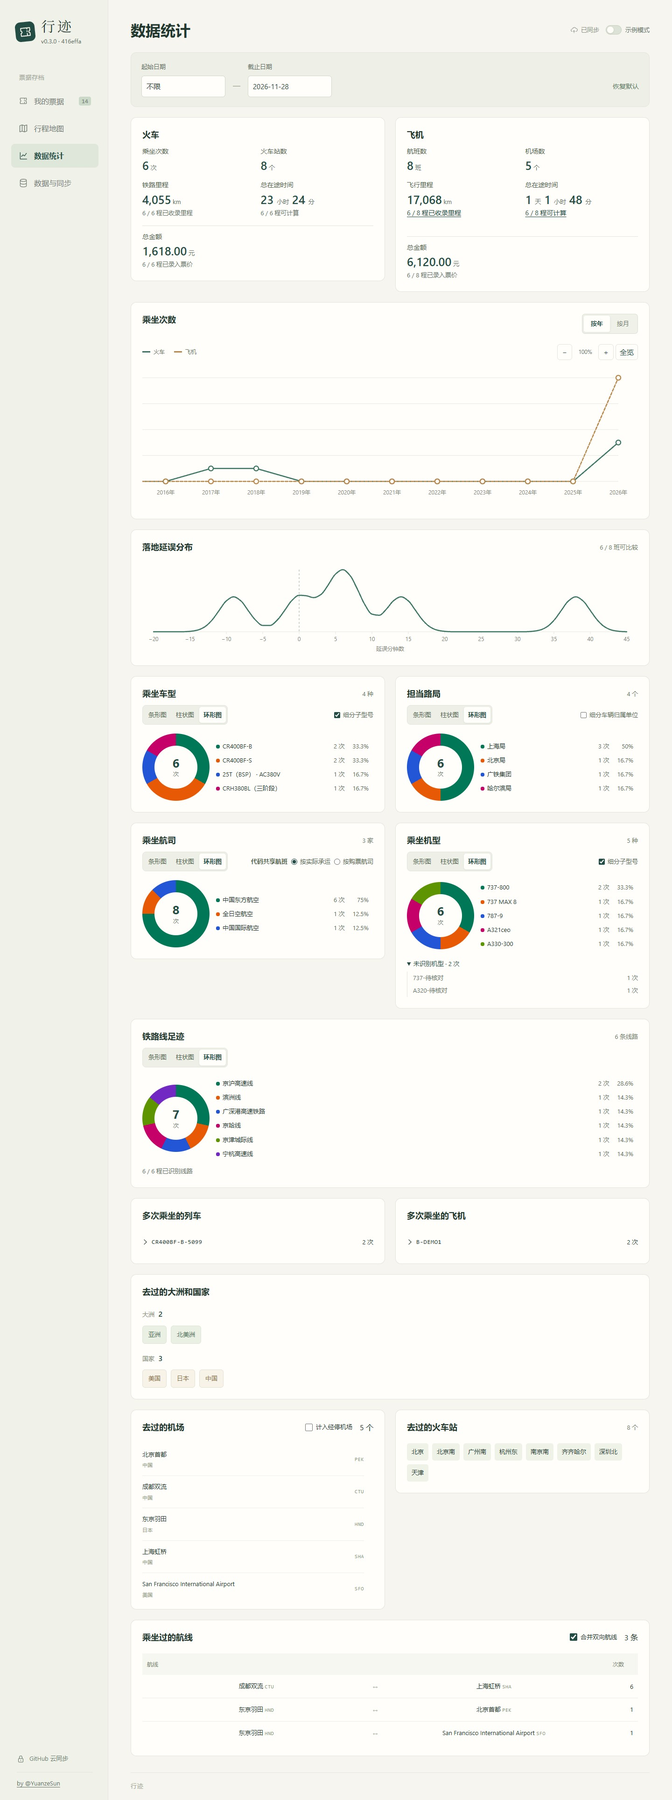
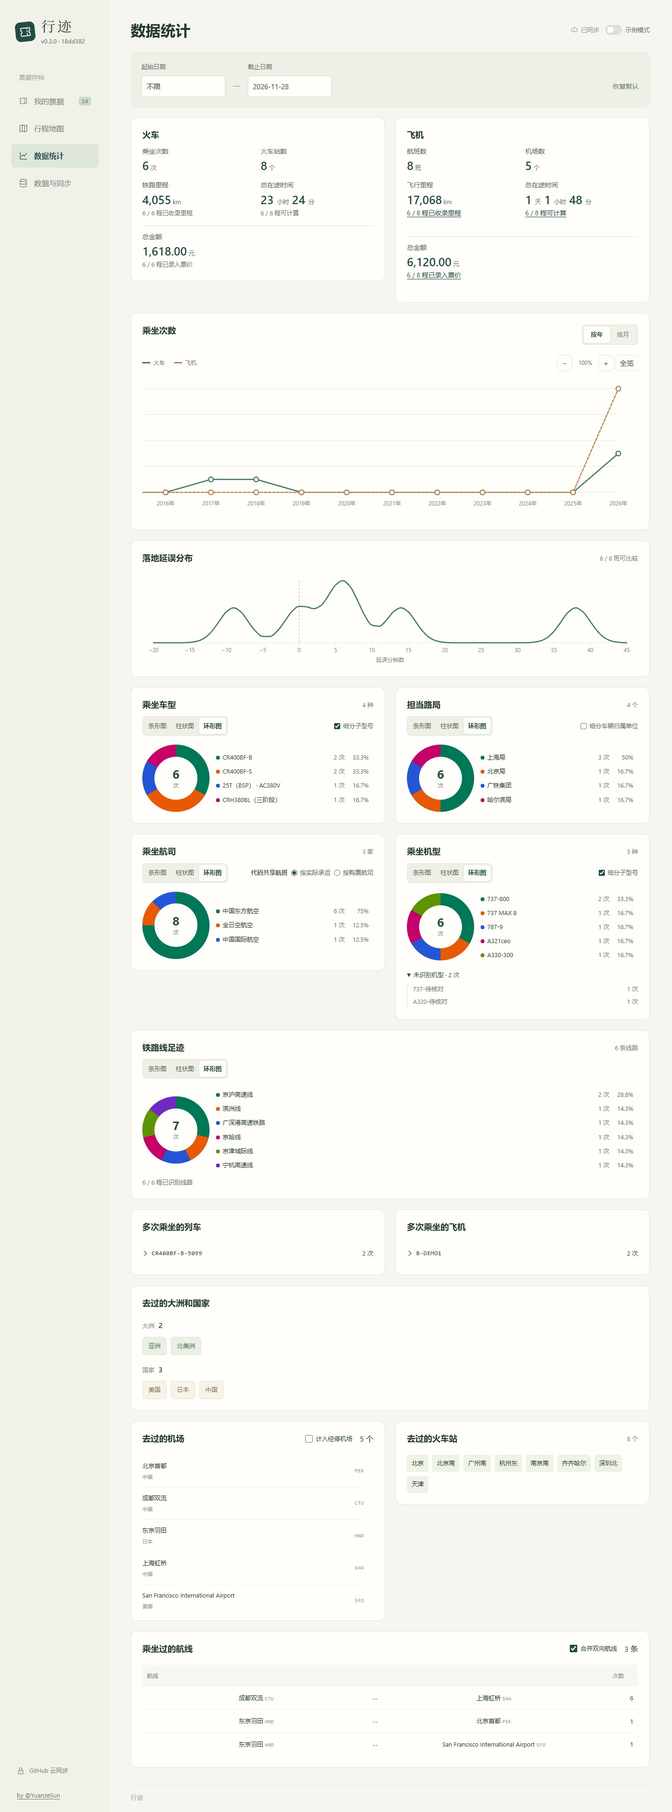
Use direct cabin entry and improve ticket coverage displays

diff --git a/tests/statistics.test.js b/tests/statistics.test.js
@@ -139,9 +139,10 @@ test('rail and flight travel times are totaled independently across dates, time 
 test('ticket fare totals follow the journey date range and distinguish zero prices from missing prices', () => {
   const rows = [
     rail({ price: '0.1' }), rail({ price: '0.20', template: 'rail-supplement', railSupplementFee: '0.10' }),
-    rail({}), rail({ price: '20', template: 'rail-refund-receipt' }),
+    rail({ id: 'missing-rail-fare' }), rail({ price: '20', template: 'rail-refund-receipt' }),
     flight({ price: '0' }), flight({ price: '1024.57', departureDate: '2024-03-02' }),
-    flight({ price: '300', flightStatus: 'invalid' }), flight({ price: '400', departureDate: '2024-03-03' })
+    flight({ price: '300', flightStatus: 'invalid' }), flight({ price: '400', departureDate: '2024-03-03' }),
+    flight({ id: 'missing-flight-fare', departureDate: '2024-03-02' })
   ];
   const options = { dateTo: '2024-03-02' };
   assert.deepEqual(journeyStatistics(rows, options).fares, { rail: { cents: 30, trips: 2 }, flight: { cents: 102457, trips: 2 } });
@@ -153,9 +154,16 @@ test('ticket fare totals follow the journey date range and distinguish zero pric
   const amounts = () => [...root.querySelectorAll('.statistics-journey-card')].map(card =>
     [...card.querySelectorAll('dt')].find(label => label.textContent === '总金额').nextElementSibling.textContent);
   try {
-    assert.deepEqual(amounts(), ['0.30 元2 / 3 程已录入票价', '1,024.57 元2 / 2 程已录入票价']);
+    assert.deepEqual(amounts(), ['0.30 元2 / 3 程已录入票价', '1,024.57 元2 / 3 程已录入票价']);
+    for (const [metric, id] of [['railFare', 'missing-rail-fare'], ['flightFare', 'missing-flight-fare']]) {
+      root.querySelector(`[data-stat-missing="${metric}"]`).click();
+      const dialog = root.querySelector('.related-tickets-dialog');
+      assert.deepEqual([...dialog.querySelectorAll('[data-action="view"]')].map(button => button.dataset.id), [id]);
+      dialog.querySelector('[data-close-related]').click();
+    }
     applyStatisticsDate(root, '[data-stat-to]', '2024-03-01');
     assert.deepEqual(amounts(), ['0.30 元2 / 3 程已录入票价', '0.00 元1 / 1 程已录入票价']);
+    assert.equal(root.querySelector('[data-stat-missing="flightFare"]'), null);
     applyStatisticsDate(root, '[data-stat-to]', '2024-02-29');
     assert.deepEqual(amounts(), ['0.30 元2 / 3 程已录入票价', '—0 / 0 程已录入票价']);
   } finally {
@@ -344,7 +352,7 @@ test('statistics keep airport and station identities, combine return air routes 
   assert.equal(data.stations.length, 2); assert.equal(data.airports.length, 3);
   assert.equal(data.routes.length, 2); assert.equal(data.routes.find(route => route.id === 'HND-PEK').count, 2);
   assert.deepEqual(data.aircraft, [{ name: '737-800', count: 2 }, { name: 'A320（子型号未确认）', count: 1 }]);
-  assert.equal(data.unknownAircraft, 1);
+  assert.equal(data.unknownAircraft, 0);
   assert.deepEqual(data.countries.map(row => row.code).sort(), ['CN', 'JP']);
   assert.equal(JSON.stringify(rows), before);
 });
@@ -665,11 +673,11 @@ test('each ranking switches charts independently and keeps its grouping and date
     const slices = aircraft.querySelector('.statistics-ring').style.getPropertyValue('--slices');
     const unknown = aircraft.querySelector('.statistics-unidentified');
     assert.equal(unknown.open, false);
-    assert.equal(unknown.querySelector('summary').textContent, '未识别机型 · 4 次');
+    assert.equal(unknown.querySelector('summary').textContent, '未识别机型 · 3 次');
     unknown.querySelector('summary').click();
     assert.equal(unknown.open, true);
     const unknownRows = [...unknown.querySelectorAll('li')].map(row => [...row.children].map(cell => cell.textContent));
-    assert.deepEqual(Object.fromEntries(unknownRows), { '未知型号': '2 次', '实验机型 <X>': '1 次', '未填写': '1 次' });
+    assert.deepEqual(Object.fromEntries(unknownRows), { '未知型号': '2 次', '实验机型 <X>': '1 次' });
     assert.doesNotMatch(aircraft.textContent, /其他（/);
     assert.equal(entries.length, 7);
     assert.equal(new Set(colors).size, entries.length);

diff --git a/src/statistics.js b/src/statistics.js
@@ -9,12 +9,14 @@ import { showRelatedTickets } from './related-tickets.js';
 const empty = text => `<p class="statistics-empty">${text}</p>`;
 const metricMarkup = (value, unit, maximumFractionDigits = 0, minimumFractionDigits = 0) =>
   `${value.toLocaleString('zh-CN', { maximumFractionDigits, minimumFractionDigits })}<small> ${unit}</small>`;
-const fareMetric = ({ cents, trips }) => ['总金额', metricMarkup(cents / 100, '元', 2, 2), trips, '程已录入票价'];
+const fareMetric = ({ cents, trips }, metric) => ['总金额', metricMarkup(cents / 100, '元', 2, 2), trips, '程已录入票价', metric];
 const missingTitles = {
   railMileage: '缺少铁路里程',
   flightMileage: '缺少飞行里程',
   railTravelTime: '无法计算火车在途时间',
-  flightTravelTime: '无法计算飞机在途时间'
+  flightTravelTime: '无法计算飞机在途时间',
+  railFare: '缺少火车票价',
+  flightFare: '缺少航班票价'
 };
 function metricCoverage(count, total, label, metric, missing) {
   if (!label) return '';
@@ -58,7 +60,7 @@ function unknownRankingMarkup(label, count, details) {
   if (!count) return '';
   const summary = `${label} · ${count} 次`;
   if (!details) return `<p class="fine-print">${summary}</p>`;
-  const items = details.map(({ name, count }) => `<li><span>${e(name || '未填写')}</span><span>${count} 次</span></li>`).join('');
+  const items = details.map(({ name, count }) => `<li><span>${e(name)}</span><span>${count} 次</span></li>`).join('');
   return `<details class="statistics-unidentified"><summary>${summary}</summary><ul>${items}</ul></details>`;
 }
 
@@ -104,14 +106,14 @@ export function mountStatistics(container, records, { options = {}, canEdit = ()
         ['火车站数', metricMarkup(data.stations.length, '个')],
         ['铁路里程', metricMarkup(data.railMileage, 'km', 3), data.railMileageTrips, '程已收录里程', 'railMileage'],
         ['总在途时间', durationMarkup(rail.minutes), rail.trips, '程可计算', 'railTravelTime'],
-        fareMetric(data.fares.rail)
+        fareMetric(data.fares.rail, 'railFare')
       ]],
       ['飞机', data.flight, [
         ['航班数', metricMarkup(data.flight, '班')],
         ['机场数', metricMarkup(data.airports.length, '个')],
         ['飞行里程', metricMarkup(data.flightMileage, 'km', 1), data.flightMileageTrips, '程已收录里程', 'flightMileage'],
         ['总在途时间', durationMarkup(flight.minutes), flight.trips, '程可计算', 'flightTravelTime'],
-        fareMetric(data.fares.flight)
+        fareMetric(data.fares.flight, 'flightFare')
       ]]
     ];
     container.innerHTML = `<section class="statistics-range" aria-label="统计日期范围"><div>${rangeButton('dateFrom', '起始日期', 'data-stat-from')}<span class="statistics-range-dash">—</span>${rangeButton('dateTo', '截止日期', 'data-stat-to')}<button type="button" class="text-button" data-stat-reset aria-label="恢复默认日期" title="恢复默认日期"><span class="statistics-reset-symbol" aria-hidden="true">↺</span><span class="statistics-reset-label">恢复默认</span></button></div><p class="form-error" role="alert" ${data.error ? '' : 'hidden'}>${e(data.error)}</p></section>${data.error ? '' : `

diff --git a/tests/boarding-code-app.test.js b/tests/boarding-code-app.test.js
@@ -33,8 +33,9 @@ test('the app saves generated code edits immediately, persists provenance, and k
     assert.ok(document.querySelector('[name="pnr"]').compareDocumentPosition(document.querySelector('[data-bcbp-generator]')) & window.Node.DOCUMENT_POSITION_FOLLOWING);
     assert.equal(document.querySelector('[name="marketingCarrier"], [name="marketingFlightNumber"]'), null);
     assert.equal(document.querySelector('[data-bcbp="operatingFlight"]').disabled, false);
-    fill('seat','20C');submit();await wait(()=>!document.querySelector('dialog'));
+    fill('seat','20C');fill('seatClass','J');submit();await wait(()=>!document.querySelector('dialog'));
     let saved=server.records().find(record=>record.id==='generated');assert.equal(saved.seat,'20C');assert.equal(saved.boardingCodeSource,'generated');assert.equal(readBoardingCode(saved.boardingCode).seat,'20C');
+    assert.equal(saved.seatClass,'J');assert.equal(readBoardingCode(saved.boardingCode).cabin,'J');
     assert.equal(Object.hasOwn(saved,'marketingFlightNumber'),false);
     assert.equal(saved.fieldSources.seat,'manual');assert.equal(saved.fieldSources.boardingCode,'generated');
     await open('generated');assert.equal(document.querySelector('[data-bcbp="sequence"]').value,'0025');assert.equal(document.querySelector('[data-bcbp="status"]').value,'1');
@@ -70,11 +71,11 @@ test('the app saves generated code edits immediately, persists provenance, and k
       assert.match(field.textContent,/购票航班号.*MU7941/);
     });
     assert.equal(document.querySelector('[name="marketingFlightNumber"]').value,'MU7941');
-    assert.equal(document.querySelector('[name="type"]').disabled,true);assert.equal(document.querySelector('[name="service"]').readOnly,true);assert.equal(document.querySelector('[data-seat-preset]').disabled,true);assert.equal(document.querySelector('[name="departureDate"]').readOnly,false);
+    assert.equal(document.querySelector('[name="type"]').disabled,true);assert.equal(document.querySelector('[name="service"]').readOnly,true);assert.equal(document.querySelector('[name="seatClass"]').readOnly,true);assert.equal(document.querySelector('[name="departureDate"]').readOnly,false);
     assert.equal(document.querySelector('#code-remove'),null);
     assert.ok(document.querySelector('[data-code-start]:not(:disabled)'));
     assert.ok(document.querySelector('[data-code-upload]:not(:disabled)'));
     assert.equal(document.querySelector('[data-code-examples]').hidden, true);
-    fill('seat','30C');submit();await wait(()=>!document.querySelector('dialog'));saved=server.records().find(record=>record.id==='original');assert.equal(saved.seat,'12A');assert.deepEqual(saved.boardingCode,original.boardingCode);
+    fill('seat','30C');fill('seatClass','J');submit();await wait(()=>!document.querySelector('dialog'));saved=server.records().find(record=>record.id==='original');assert.equal(saved.seat,'12A');assert.equal(saved.seatClass,'Y');assert.deepEqual(saved.boardingCode,original.boardingCode);
   }finally{window.dispatchEvent(new window.Event('offline'));dom.window.close();}
 });

diff --git a/tests/flight-lookup-app.test.js b/tests/flight-lookup-app.test.js
@@ -48,7 +48,7 @@ test('the editor fills a flight through the provider, preserves private input an
     assert.equal(document.querySelector('[name=boardingTime]').value, '23:05');
     assert.equal(document.querySelector('[name=departureTerminal]').value, 'T3');
     assert.equal(document.querySelector('[name=arrivalTerminal]').value, 'T2');
-    assert.equal(document.querySelector('[name=flightStopAirport]').value, 'KIX');
+    assert.equal(document.querySelector('[name=flightStopAirport]').value, '关西国际机场');
     assert.equal(document.querySelector('[data-flight-stop-source]').textContent, '飞常准');
     assert.equal(document.querySelector('[name=actualDepartureTime]').value,'00:15');assert.equal(document.querySelector('[name=actualArrivalTime]').value,'04:15');assert.equal(document.querySelector('[name=flightDistance]').value,'2100');
     assert.match(document.querySelector('[name=departureTime]').closest('.field').textContent,/计划起飞时间/);assert.equal(document.querySelector('[name=actualDepartureTime]').required,false);assert.equal(document.querySelector('[name=actualDepartureDateYear]').type,'number');
@@ -96,7 +96,7 @@ test('the editor fills a flight through the provider, preserves private input an
     assert.match(document.querySelector('[data-detail-field=flightStop]').textContent, /经停机场.*KIX/);
     document.querySelector('[data-action="edit"]').click(); await wait(() => document.querySelector('#editor-form'));
     const airport = document.querySelector('[name=flightStopAirport]');
-    assert.equal(airport.value, 'KIX');
+    assert.equal(airport.value, '关西国际机场');
     fill('flightStopAirport', 'PVG、KIX');
     submit();
     assert.equal(airport.getAttribute('aria-invalid'), 'true');
@@ -104,6 +104,9 @@ test('the editor fills a flight through the provider, preserves private input an
     fill('flightStopAirport', 'PEK');
     submit();
     assert.match(document.querySelector('#editor-error').textContent, /经停机场须与出发和到达机场不同/);
+    fill('flightStopAirport', 'PVG');
+    airport.dispatchEvent(new window.Event('change', { bubbles: true }));
+    assert.equal(airport.value, '上海浦东国际机场');
     airport.focus();
     fill('flightStopAirport', '上海');
     const suggestions = airport.closest('.airport-picker').querySelector('[role=listbox]');
@@ -112,7 +115,7 @@ test('the editor fills a flight through the provider, preserves private input an
     assert.ok(pudong);
     pudong.click();
     assert.equal(suggestions.hidden, true);
-    assert.equal(airport.value, 'PVG');
+    assert.equal(airport.value, '上海浦东国际机场');
     assert.equal(document.querySelector('[data-flight-stop-source]').textContent, '手动输入');
     submit(); await wait(() => !document.querySelector('dialog'));
     const corrected = (await db.get('records', []))[0];

diff --git a/src/seat-class-field.js b/src/seat-class-field.js
@@ -1,14 +1,17 @@
-import { SEAT_CLASSES, normalizeSeatClass } from './seat-classes.js';
+import { RAIL_SEAT_CLASSES, normalizeSeatClass } from './seat-classes.js';
 import { escape as e } from './html.js';
 import { requiredRecordFields, ticketRequiredMark } from './ticket-form.js';
 import {fieldSourceBadge} from './field-sources.js';
 
 export function seatClassField(record) {
-  const flight = record.type === 'flight', presets = SEAT_CLASSES[record.type];
   const value = normalizeSeatClass(record.seatClass, record.type);
-  const custom = !!value && !presets.includes(value);
   const required = requiredRecordFields(record).includes('seatClass');
-  return `<div class="field seat-class-field"><span>${flight ? '舱位代码' : '席别'}${ticketRequiredMark(record, 'seatClass', required)}${fieldSourceBadge('seatClass',record)}</span><select ${required ? 'required aria-required="true"' : ''} data-seat-preset aria-label="选择席别或舱位"><option value="">${flight ? '选择舱位代码' : '选择席别'}</option>${presets.map(label => `<option value="${e(label)}" ${value === label ? 'selected' : ''}>${e(label)}</option>`).join('')}<option value="__custom__" ${custom ? 'selected' : ''}>自定义…</option></select><input name="seatClass" aria-required="${required}" value="${e(value)}" aria-label="自定义席别或舱位" placeholder="${flight ? '如 Y、M1，按原票填写' : '填写席别'}" ${custom ? '' : 'hidden'} /></div>`;
+  const marks = ticketRequiredMark(record, 'seatClass', required) + fieldSourceBadge('seatClass', record);
+  if (record.type === 'flight') {
+    return `<label class="field"><span>舱位代码${marks}</span><input type="text" name="seatClass" value="${e(value)}" ${required ? 'required' : ''} spellcheck="false" /></label>`;
+  }
+  const custom = !!value && !RAIL_SEAT_CLASSES.includes(value);
+  return `<div class="field seat-class-field"><span>席别${marks}</span><select ${required ? 'required aria-required="true"' : ''} data-seat-preset aria-label="选择席别"><option value="">选择席别</option>${RAIL_SEAT_CLASSES.map(label => `<option value="${e(label)}" ${value === label ? 'selected' : ''}>${e(label)}</option>`).join('')}<option value="__custom__" ${custom ? 'selected' : ''}>自定义…</option></select><input name="seatClass" aria-required="${required}" value="${e(value)}" aria-label="自定义席别" placeholder="填写席别" ${custom ? '' : 'hidden'} /></div>`;
 }
 
 export function bindSeatClassFields(root) {

diff --git a/tests/manual-entry.test.js b/tests/manual-entry.test.js
@@ -76,7 +76,10 @@ test('manual entry always previews, validates required fields and resolves airpo
   click('.duplicate-dialog [data-duplicate-value]:not([data-duplicate-value=""])');await wait(()=>!document.querySelector('dialog'));
   records=await db.get('records',[]);assert.equal(records.length,1);assert.equal(records[0].price,'100');assert.equal(records[0].seat,'08F');
   click('[data-action="new"]');await wait(()=>document.querySelector('#editor-form'));
-  fill('type','flight');fill('passenger','示例旅客');fill('identity','p000001');fill('seat','24k');fill('seatClass','Y');fill('departureTime','12:00');assert.match(document.querySelector('[name="seat"]').closest('.field').textContent.trim(),/^座位号\*/);assert.equal(document.querySelector('[data-field-source="seat"]').textContent,'手动输入');
+  fill('type','flight');fill('passenger','示例旅客');fill('identity','p000001');fill('seat','24k');fill('seatClass','m1');fill('departureTime','12:00');assert.match(document.querySelector('[name="seat"]').closest('.field').textContent.trim(),/^座位号\*/);assert.equal(document.querySelector('[data-field-source="seat"]').textContent,'手动输入');
+  const seatClass=document.querySelector('input[name="seatClass"]');
+  assert.equal(seatClass.value,'M1');assert.equal(seatClass.required,true);assert.equal(seatClass.hidden,false);
+  assert.equal(document.querySelector('[data-seat-preset]'),null);
   const englishName=document.querySelector('[data-bcbp="passenger"]');
   englishName.value='li/ming';englishName.dispatchEvent(new window.InputEvent('input',{bubbles:true}));
   assert.equal(englishName.value,'LI/MING');
@@ -116,7 +119,7 @@ test('manual entry always previews, validates required fields and resolves airpo
   assert.equal(flight.boardingCodeOperatingFlight, 'NH964');
   assert.equal(flight.service, 'CA981');
   assert.equal(flight.originCode,'PEK');assert.equal(flight.destinationCode,'HND');
-  assert.equal(flight.identity,'P000001');assert.equal(flight.seat,'24K');
+  assert.equal(flight.identity,'P000001');assert.equal(flight.seat,'24K');assert.equal(flight.seatClass,'M1');
   assert.equal(flight.departureZone,'Asia/Shanghai');assert.equal(flight.arrivalZone,'Asia/Tokyo');
   assert.deepEqual([flight.baggageTagNumbers, flight.checkedBaggageCount, flight.checkedBaggageWeight], ['0123456789', '1', '']);
   click('[data-action="new"][data-type="flight"]');await wait(()=>document.querySelector('#editor-form'));

diff --git a/tests/code-reader.test.js b/tests/code-reader.test.js
@@ -17,7 +17,7 @@ import {taggedBoardingPayload} from './helpers/tagged-boarding-code.js';
 import { multilegCode, multilegPayload } from './helpers/multileg-boarding-code.js';
 import { BOARDING_METADATA_FIELDS } from '../src/boarding-metadata.js';
 import {boardingPresentation} from '../src/boarding-language.js';
-import {seatClassField,bindSeatClassFields} from '../src/seat-class-field.js';
+import {seatClassField} from '../src/seat-class-field.js';
 import {ticketFieldLocked} from '../src/barcode-fields.js';
 import { symbolImage } from '../src/barcode-symbols.js';
 import { Resvg } from '@resvg/resvg-js';
@@ -184,12 +184,11 @@ test('the QR fills the single boarding time and preserves city tags and unknown 
   const draft=createRecord({type:'flight',template:'air-boarding-pass',boardingTime:'17:30'});
   const fields=[...BOARDING_SHARED_FIELDS.filter(key=>key!=='seatClass'),'airline'];
   const dom=new JSDOM('<form>'+fields.map(key=>`<input name="${key}" value="${draft[key]}">`).join('')+seatClassField(draft)+ticketCodeEditor(draft)+boardingGeneratorMarkup(draft)+'</form>'),form=dom.window.document.querySelector('form');
-  bindSeatClassFields(form);
   const cleanup=bindTicketCodeEditor(form,draft,()=>{},{loadRebuilder:async()=>async()=>result});
   try{
     const photo=form.querySelector('#code-photo');Object.defineProperty(photo,'files',{value:[new Blob(['synthetic QR'])]});photo.dispatchEvent(new dom.window.Event('change',{bubbles:true}));await new Promise(resolve=>setTimeout(resolve,0));
     assert.equal(draft.passenger,'张三');assert.equal(form.elements.passenger.value,'张三');assert.equal(draft.ticketNumber,'1230000000001');assert.equal(form.elements.gate.value,'A101');
-    assert.equal(draft.seatClass,'Z');assert.equal(form.elements.seatClass.value,'Z');assert.equal(form.querySelector('[data-seat-preset]').value,'Z');assert.equal(form.elements.seatClass.hidden,true);
+    assert.equal(draft.seatClass,'Z');assert.equal(form.elements.seatClass.value,'Z');assert.equal(form.elements.seatClass.hidden,false);assert.equal(form.elements.seatClass.readOnly,true);
     assert.equal(draft.airline,'中国国际航空');assert.equal(form.elements.airline.value,'中国国际航空');
     assert.equal(draft.boardingTime,'18:21');assert.equal(calendarDate(draft.departureDate),'');assert.equal(readBoardingCode(draft.boardingCode).boardingTime,'18:21');
     assert.equal(form.elements.boardingTime.value,'18:21');

diff --git a/tests/barcode-fields.test.js b/tests/barcode-fields.test.js
@@ -20,14 +20,14 @@ test('barcode-derived fields stay protected against manual attribution, provider
   assert.equal(filled.passenger,'张三');
 });
 
-test('readonly controls and the seat preset unlock only after the original code is removed',()=>{
+test('readonly controls including the cabin input unlock after the original code is removed',()=>{
   const current=record(),dom=new JSDOM('<form><label class="field"><span>交通方式</span><select name="type"><option value="flight">机票</option></select></label><label class="field"><span>姓名</span><input name="passenger"></label><label class="field"><span>日期</span><input type="date" name="departureDate"></label>'+seatClassField(current)+'</form>'),form=dom.window.document.querySelector('form');
   try{
     refreshTicketFieldLocks(form,current);
-    assert.equal(form.elements.passenger.readOnly,true);assert.equal(form.elements.passenger.value,'张三');assert.equal(form.elements.type.disabled,true);assert.equal(form.querySelector('[data-seat-preset]').disabled,true);assert.equal(form.elements.departureDate.readOnly,false);
+    assert.equal(form.elements.passenger.readOnly,true);assert.equal(form.elements.passenger.value,'张三');assert.equal(form.elements.type.disabled,true);assert.equal(form.elements.seatClass.readOnly,true);assert.equal(form.elements.departureDate.readOnly,false);
     assert.ok(form.querySelector('[data-source-locked]'));
     current.boardingCode='';current.boardingCodeSource='';refreshTicketFieldLocks(form,current);
-    assert.equal(form.elements.passenger.readOnly,false);assert.equal(form.elements.type.disabled,false);assert.equal(form.querySelector('[data-seat-preset]').disabled,false);
+    assert.equal(form.elements.passenger.readOnly,false);assert.equal(form.elements.type.disabled,false);assert.equal(form.elements.seatClass.readOnly,false);
   }finally{dom.window.close();}
 });
 

diff --git a/src/statistics-model.js b/src/statistics-model.js
@@ -82,7 +82,7 @@ export function journeyStatistics(records, input = {}, today = todayDate()) {
   let unknownAirlines = 0;
   let rail = 0, flight = 0, railMileage = 0, flightMileage = 0;
   let railLineTrips = 0, arrivalDelayTrips = 0;
-  const missing = { railMileage: [], flightMileage: [], railTravelTime: [], flightTravelTime: [] };
+  const missing = { railMileage: [], flightMileage: [], railTravelTime: [], flightTravelTime: [], railFare: [], flightFare: [] };
   const travelTime = { rail: { minutes: 0, trips: 0 }, flight: { minutes: 0, trips: 0 } };
   const fares = { rail: { cents: 0, trips: 0 }, flight: { cents: 0, trips: 0 } };
   const pricedFlightTickets = new Map();
@@ -99,7 +99,7 @@ export function journeyStatistics(records, input = {}, today = todayDate()) {
           pricedFlightTickets.set(ticket, record);
         }
       }
-    }
+    } else missing[record.type === 'rail' ? 'railFare' : 'flightFare'].push(record);
     const { minutes, arrivalDifference: delay } = journeyTiming(record);
     if (minutes) {
       travelTime[record.type].minutes += minutes;
@@ -155,7 +155,7 @@ export function journeyStatistics(records, input = {}, today = todayDate()) {
       aircraft.set(model, (aircraft.get(model) || 0) + 1);
     } else {
       const name = String(record.aircraft ?? '').trim();
-      unknownAircraftCounts.set(name, (unknownAircraftCounts.get(name) || 0) + 1);
+      if (name) unknownAircraftCounts.set(name, (unknownAircraftCounts.get(name) || 0) + 1);
     }
     if (endpoints.some(place => !place)) continue;
     const pair = options.mergeDirections ? [...endpoints].sort((a,b)=>a.code.localeCompare(b.code)) : endpoints, id=pair.map(place=>place.code).join('-');

diff --git a/tests/aircraft.test.js b/tests/aircraft.test.js
@@ -83,7 +83,7 @@ test('provider completion accepts regional type codes including names without di
 test('aircraft statistics group equivalent spellings and keep generations and unresolved entries distinct', () => {
   const inputs = ['737-8Q8', '8Q8', 'B738', '738', 'B737', 'ICAO B737', '737-8', 'B38M', '737-8-200',
     'A320-214', 'A320-271N', 'A20N', 'A330-343', 'A333', '330', 'Q400', 'DH8D', 'DHC-8', 'DHC-8-402',
-    'E195-E2', 'E295', 'CRJ7', 'AT76', 'ATR72-600', 'A320-999', '73Q', ''];
+    'E195-E2', 'E295', 'CRJ7', 'AT76', 'ATR72-600', 'A320-999', '73Q', '', '  '];
   const records = inputs.map((aircraft, index) => ({ ...createRecord({ id: 'type-' + index, type: 'flight', template: 'air-boarding-pass', origin: 'PEK', destination: 'SHA', departureDate: '2023-11-18' }), aircraft }));
   const before = JSON.stringify(records), data = journeyStatistics(records, { dateTo: '2023-12-31' });
   assert.equal(data.flight, inputs.length);
@@ -91,7 +91,7 @@ test('aircraft statistics group equivalent spellings and keep generations and un
   assert.deepEqual(counts, { '737-800': 4, '737（子型号未确认）': 1, '737-700': 1, '737 MAX 8': 3,
     A320ceo: 1, A320neo: 2, 'A330-300': 2, 'A330（子型号未确认）': 1, 'DHC-8-400': 3, 'DHC-8（子型号未确认）': 1,
     'E195-E2': 2, 'CRJ7（子型号未确认）': 1, 'ATR 72-600': 2 });
-  assert.equal(data.unknownAircraft, 3);
+  assert.equal(data.unknownAircraft, 2);
   assert.equal(JSON.stringify(records), before);
 });
 

diff --git a/src/seat-classes.js b/src/seat-classes.js
@@ -1,9 +1,8 @@
-export const SEAT_CLASSES = Object.freeze({
-  rail: ['商务座', '特等座', '优选一等座', '一等座', '二等座', '高级软卧', '软卧', '硬卧', '一等卧', '二等卧', '动卧', '软座', '硬座', '新空调软卧', '新空调硬卧', '新空调软座', '新空调硬座'],
-  flight: [...new Set('YBMHKLQVWSTNUXJCDZIFAEGOPR')]
-});
+export const RAIL_SEAT_CLASSES = Object.freeze([
+  '商务座', '特等座', '优选一等座', '一等座', '二等座', '高级软卧', '软卧', '硬卧', '一等卧', '二等卧', '动卧', '软座', '硬座', '新空调软卧', '新空调硬卧', '新空调软座', '新空调硬座'
+]);
 
-const railSeatClassPattern = new RegExp([...SEAT_CLASSES.rail].sort((a, b) => b.length - a.length).join('|'), 'g');
+const railSeatClassPattern = new RegExp([...RAIL_SEAT_CLASSES].sort((a, b) => b.length - a.length).join('|'), 'g');
 const railSeatClassSuffix = new RegExp('(?:卧代)?(?:' + railSeatClassPattern.source + ')$');
 
 export const stripRailSeatClassSuffix = text => text.replace(railSeatClassSuffix, '');
@@ -32,5 +31,5 @@ export function normalizeSeatClass(value, type) {
     if (code) return code.toUpperCase();
   }
   const names = aliases[type] || {};
-  return (Object.hasOwn(names, key) ? names[key] : '') || SEAT_CLASSES[type]?.find(label => label === key) || trimmed;
+  return (Object.hasOwn(names, key) ? names[key] : '') || (type === 'rail' && RAIL_SEAT_CLASSES.includes(key) ? key : trimmed);
 }

diff --git a/src/code-editor.js b/src/code-editor.js
@@ -195,12 +195,6 @@ export function bindTicketCodeEditor(form, draft, changed, {
       if (key === 'departureDate') writeTicketDate(form, key, draft[key]);
       else if (form.elements[key]) form.elements[key].value = draft[key];
     }
-    if (filled.includes('seatClass')) {
-      const preset = form.querySelector('[data-seat-preset]'), input = form.elements.seatClass;
-      if (preset && input && [...preset.options].some(option => option.value === draft.seatClass)) {
-        preset.value = draft.seatClass; input.hidden = true; input.required = false;
-      }
-    }
     refreshBoardingGenerator(form, draft, { profile });
     refreshFieldSources(form, draft);
     refreshTicketFieldLocks(form, draft);
@@ -365,7 +359,7 @@ export function bindTicketCodeEditor(form, draft, changed, {
     } else {
       if(input.closest('[data-code-editor]'))return;
       if(ticketFieldLocked(draft,input.name)){refreshTicketFieldLocks(form,draft);return;}
-      if(!BOARDING_SHARED_FIELDS.includes(input.closest('[data-journey-date]')?.dataset.journeyDate || input.name) && !input.matches('[data-seat-preset]'))return;
+      if(!BOARDING_SHARED_FIELDS.includes(input.closest('[data-journey-date]')?.dataset.journeyDate || input.name))return;
     }
     clearTimeout(updateTimer);
     updateTimer=setTimeout(()=>{if(section.isConnected)updateGenerated();},150);
